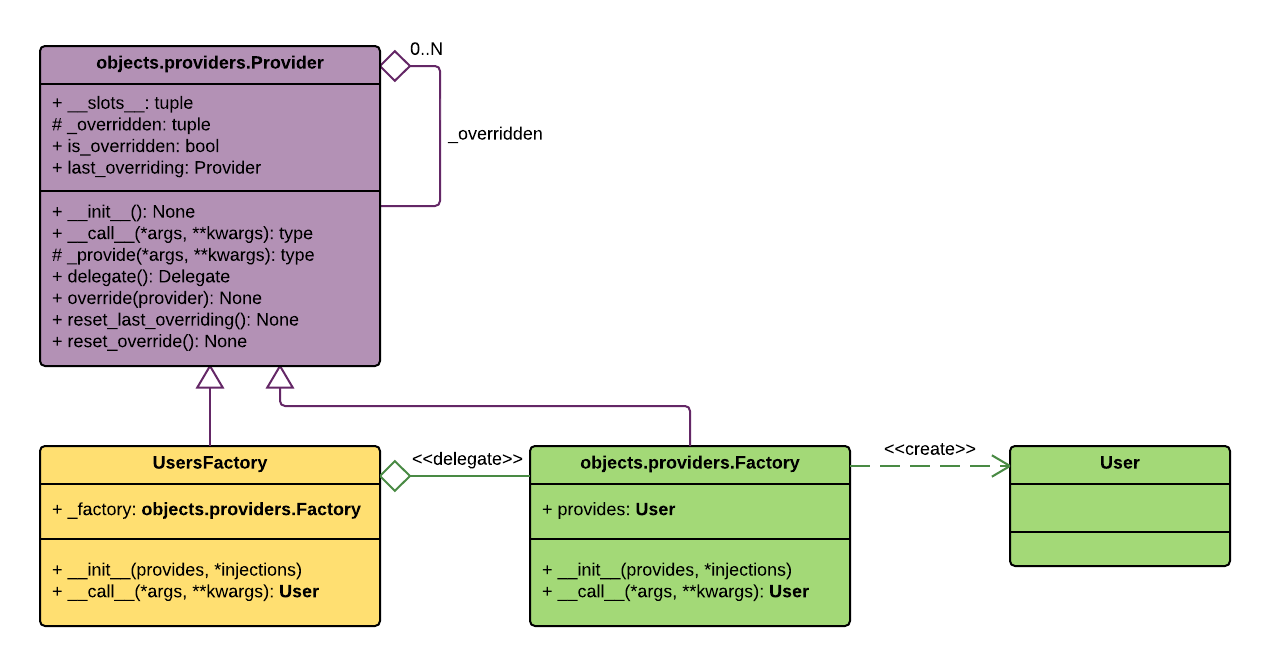
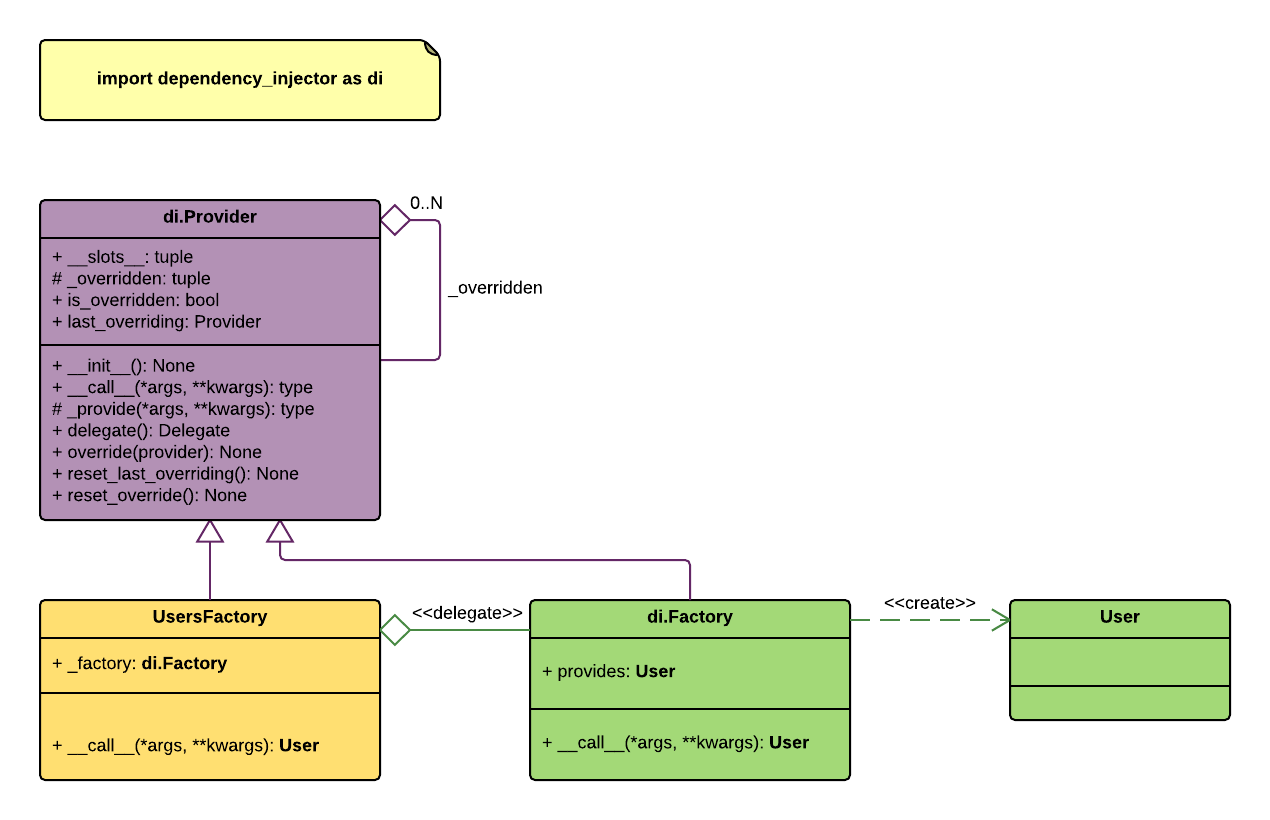
Update docs about writing custom providers

diff --git a/examples/providers/custom_factory.py b/examples/providers/custom_factory.py
@@ -1,7 +1,6 @@
-"""Custom `Factory` example."""
+"""Custom `di.Factory` example."""
 
-from dependency_injector.providers import Provider
-from dependency_injector.providers import Factory
+import dependency_injector as di
 
 
 class User(object):
@@ -9,7 +8,7 @@ class User(object):
     """Example class User."""
 
 
-class UsersFactory(Provider):
+class UsersFactory(di.Provider):
 
     """Example users factory."""
 
@@ -17,7 +16,7 @@ class UsersFactory(Provider):
 
     def __init__(self):
         """Initializer."""
-        self._factory = Factory(User)
+        self._factory = di.Factory(User)
         super(UsersFactory, self).__init__()
 
     def _provide(self, *args, **kwargs):

diff --git a/docs/providers/custom.rst b/docs/providers/custom.rst
@@ -5,27 +5,23 @@ List of *Dependency Injector* providers could be widened with custom providers.
 
 Below are some tips and recommendations that have to be met:
 
-    1. Every custom provider has to extend base provider class -
-       ``dependency_injector.providers.Provider``.
+    1. Every custom provider has to extend base provider class - 
+       ``di.Provider``.
     2. Cusom provider's ``__init__()`` could be overriden with only condition: 
-       parent initializer 
-       (``dependency_injector.providers.Provider.__init__()``) has to be called.
+       parent initializer (``di.Provider.__init__()``) has to be called.
     3. Providing strategy has to be implemented in custom provider's 
        ``_provide()`` method. All ``*args`` & ``**kwargs`` that will be
-       recieved by ``dependency_injector.providers.Provider.__call__()`` will be
-       transefed 
-       to custom provider's ``_provide()``. 
+       recieved by ``di.Provider.__call__()`` will be transefed to custom 
+       provider's ``_provide()``. 
     4. If custom provider is based on some standard providers, it is better to
        use delegation of standard providers, then extending of them.
     5. If custom provider defines any attributes, it is good to list them in 
        ``__slots__`` attribute (as *Dependency Injector* does). It can save 
        some memory.
-    6. If custom provider deals with injections (e.g. ``Factory``, 
-       ``Singleton`` providers), it is strongly recommended to use 
-       ``dependency_injector.injections.Injection`` and its subclasses:
-       ``dependency_injector.injections.KwArg``, 
-       ``dependency_injector.injections.Attribute`` and 
-       ``dependency_injector.injections.Method``. 
+    6. If custom provider deals with injections (e.g. ``di.Factory``, 
+       ``di.Singleton`` providers), it is strongly recommended to be 
+       consistent with ``di.Factory``, ``di.Singleton`` and ``di.Callable`` 
+       providers style. 
 
 Example:
 
